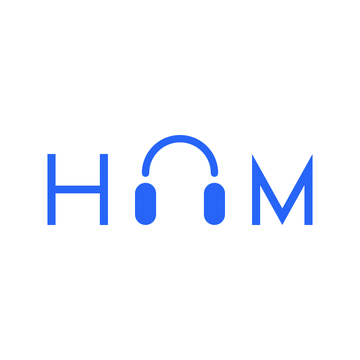
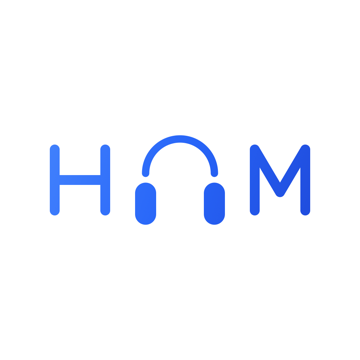
Publish HUM's public pages from 751496d

diff --git a/index.html b/index.html
@@ -14,7 +14,7 @@
 </head>
 <body class="home">
 <header class="bar"><div class="bar-in">
-  <a class="brand" href="./" aria-label="HUM" data-w-label="site.nav.brand"><svg class="mark" viewBox="135 384 754 256" aria-hidden="true" focusable="false"><path fill="currentColor" d="M135 438h23v202h-23zM284 438h23v202h-23zM158 528h126v22H158zM717 640V438l86 154.67L889 438v202h-23V526.7L803 640l-63-113.3V640z"/><rect fill="currentColor" x="384" y="520" width="60" height="120" rx="30"/><rect fill="currentColor" x="580" y="520" width="60" height="120" rx="30"/><path fill="none" stroke="currentColor" stroke-width="21" stroke-linecap="round" d="M414 492.5a98 98 0 0 1 196 0"/></svg></a>
+  <a class="brand" href="./" aria-label="HUM" data-w-label="site.nav.brand"><svg class="mark" viewBox="141 384 742 256" aria-hidden="true" focusable="false"><defs><linearGradient id="hum-ink-1" gradientUnits="userSpaceOnUse" x1="141" y1="384.5" x2="883" y2="639.5"><stop offset="0" stop-color="#4180FD"/><stop offset=".5" stop-color="#2765F8"/><stop offset="1" stop-color="#204CDD"/></linearGradient></defs><path fill="none" stroke="url(#hum-ink-1)" stroke-width="21" stroke-linecap="round" d="M414 493a98 98 0 0 1 196 0"/><rect fill="url(#hum-ink-1)" x="384" y="519.5" width="60" height="120" rx="30"/><rect fill="url(#hum-ink-1)" x="580" y="519.5" width="60" height="120" rx="30"/><path fill="none" stroke="url(#hum-ink-1)" stroke-width="28" stroke-linecap="round" stroke-linejoin="round" d="M155 425V599M299 425V599M155 512H299M725 599V425L797 546.8L869 425V599"/></svg></a>
   <nav class="tabs"><a data-w="site.nav.home" href="./" aria-current="page">Home</a><a data-w="site.nav.about" href="about">About</a><a data-w="site.nav.privacy" href="privacy">Privacy</a><a data-w="site.nav.support" href="support">Support</a></nav>
   <span class="badges"><a class="badge" href="https://apps.apple.com/app/id6820010168"><img data-w-alt="site.badge.apple" src="badges/app-store.svg" width="120" height="40" alt="Download on the App Store"></a><button class="badge play" type="button"><img data-w-alt="site.badge.google" src="badges/google-play.png" width="134" height="40" alt="Get it on Google Play"><span class="soon" data-w="site.badge.soon">Coming soon</span></button></span>
 </div></header>
@@ -88,7 +88,7 @@
 </div></section>
 
 <section class="last"><div class="wrap">
-  <svg class="mark" viewBox="135 384 754 256" aria-hidden="true" focusable="false"><path fill="currentColor" d="M135 438h23v202h-23zM284 438h23v202h-23zM158 528h126v22H158zM717 640V438l86 154.67L889 438v202h-23V526.7L803 640l-63-113.3V640z"/><rect fill="currentColor" x="384" y="520" width="60" height="120" rx="30"/><rect fill="currentColor" x="580" y="520" width="60" height="120" rx="30"/><path fill="none" stroke="currentColor" stroke-width="21" stroke-linecap="round" d="M414 492.5a98 98 0 0 1 196 0"/></svg>
+  <svg class="mark" viewBox="141 384 742 256" aria-hidden="true" focusable="false"><path fill="none" stroke="currentColor" stroke-width="21" stroke-linecap="round" d="M414 493a98 98 0 0 1 196 0"/><rect fill="currentColor" x="384" y="519.5" width="60" height="120" rx="30"/><rect fill="currentColor" x="580" y="519.5" width="60" height="120" rx="30"/><path fill="none" stroke="currentColor" stroke-width="28" stroke-linecap="round" stroke-linejoin="round" d="M155 425V599M299 425V599M155 512H299M725 599V425L797 546.8L869 425V599"/></svg>
   <h2 data-w="site.home.last">download HUM, let your voice come to life.</h2>
   <span class="badges"><a class="badge" href="https://apps.apple.com/app/id6820010168"><img data-w-alt="site.badge.apple" src="badges/app-store.svg" width="120" height="40" alt="Download on the App Store"></a><button class="badge play" type="button"><img data-w-alt="site.badge.google" src="badges/google-play.png" width="134" height="40" alt="Get it on Google Play"><span class="soon" data-w="site.badge.soon">Coming soon</span></button></span>
 </div></section>
@@ -96,7 +96,7 @@
 
 <footer class="foot"><div class="foot-in">
   <div class="foot-brand">
-    <a class="brand" href="./" aria-label="HUM" data-w-label="site.nav.brand"><svg class="mark" viewBox="135 384 754 256" aria-hidden="true" focusable="false"><path fill="currentColor" d="M135 438h23v202h-23zM284 438h23v202h-23zM158 528h126v22H158zM717 640V438l86 154.67L889 438v202h-23V526.7L803 640l-63-113.3V640z"/><rect fill="currentColor" x="384" y="520" width="60" height="120" rx="30"/><rect fill="currentColor" x="580" y="520" width="60" height="120" rx="30"/><path fill="none" stroke="currentColor" stroke-width="21" stroke-linecap="round" d="M414 492.5a98 98 0 0 1 196 0"/></svg></a>
+    <a class="brand" href="./" aria-label="HUM" data-w-label="site.nav.brand"><svg class="mark" viewBox="141 384 742 256" aria-hidden="true" focusable="false"><defs><linearGradient id="hum-ink-3" gradientUnits="userSpaceOnUse" x1="141" y1="384.5" x2="883" y2="639.5"><stop offset="0" stop-color="#4180FD"/><stop offset=".5" stop-color="#2765F8"/><stop offset="1" stop-color="#204CDD"/></linearGradient></defs><path fill="none" stroke="url(#hum-ink-3)" stroke-width="21" stroke-linecap="round" d="M414 493a98 98 0 0 1 196 0"/><rect fill="url(#hum-ink-3)" x="384" y="519.5" width="60" height="120" rx="30"/><rect fill="url(#hum-ink-3)" x="580" y="519.5" width="60" height="120" rx="30"/><path fill="none" stroke="url(#hum-ink-3)" stroke-width="28" stroke-linecap="round" stroke-linejoin="round" d="M155 425V599M299 425V599M155 512H299M725 599V425L797 546.8L869 425V599"/></svg></a>
     <p data-w="site.foot.download">Download HUM</p>
     <span class="badges"><a class="badge" href="https://apps.apple.com/app/id6820010168"><img data-w-alt="site.badge.apple" src="badges/app-store.svg" width="120" height="40" alt="Download on the App Store"></a><button class="badge play" type="button"><img data-w-alt="site.badge.google" src="badges/google-play.png" width="134" height="40" alt="Get it on Google Play"><span class="soon" data-w="site.badge.soon">Coming soon</span></button></span>
   </div>

diff --git a/privacy.html b/privacy.html
@@ -11,7 +11,7 @@
 </head>
 <body class="doc">
 <header class="bar"><div class="bar-in">
-  <a class="brand" href="./" aria-label="HUM" data-w-label="site.nav.brand"><svg class="mark" viewBox="135 384 754 256" aria-hidden="true" focusable="false"><path fill="currentColor" d="M135 438h23v202h-23zM284 438h23v202h-23zM158 528h126v22H158zM717 640V438l86 154.67L889 438v202h-23V526.7L803 640l-63-113.3V640z"/><rect fill="currentColor" x="384" y="520" width="60" height="120" rx="30"/><rect fill="currentColor" x="580" y="520" width="60" height="120" rx="30"/><path fill="none" stroke="currentColor" stroke-width="21" stroke-linecap="round" d="M414 492.5a98 98 0 0 1 196 0"/></svg></a>
+  <a class="brand" href="./" aria-label="HUM" data-w-label="site.nav.brand"><svg class="mark" viewBox="141 384 742 256" aria-hidden="true" focusable="false"><defs><linearGradient id="hum-ink-1" gradientUnits="userSpaceOnUse" x1="141" y1="384.5" x2="883" y2="639.5"><stop offset="0" stop-color="#4180FD"/><stop offset=".5" stop-color="#2765F8"/><stop offset="1" stop-color="#204CDD"/></linearGradient></defs><path fill="none" stroke="url(#hum-ink-1)" stroke-width="21" stroke-linecap="round" d="M414 493a98 98 0 0 1 196 0"/><rect fill="url(#hum-ink-1)" x="384" y="519.5" width="60" height="120" rx="30"/><rect fill="url(#hum-ink-1)" x="580" y="519.5" width="60" height="120" rx="30"/><path fill="none" stroke="url(#hum-ink-1)" stroke-width="28" stroke-linecap="round" stroke-linejoin="round" d="M155 425V599M299 425V599M155 512H299M725 599V425L797 546.8L869 425V599"/></svg></a>
   <nav class="tabs"><a data-w="site.nav.home" href="./">Home</a><a data-w="site.nav.about" href="about">About</a><a data-w="site.nav.privacy" href="privacy" aria-current="page">Privacy</a><a data-w="site.nav.support" href="support">Support</a></nav>
   <span class="badges"><a class="badge" href="https://apps.apple.com/app/id6820010168"><img data-w-alt="site.badge.apple" src="badges/app-store.svg" width="120" height="40" alt="Download on the App Store"></a><button class="badge play" type="button"><img data-w-alt="site.badge.google" src="badges/google-play.png" width="134" height="40" alt="Get it on Google Play"><span class="soon" data-w="site.badge.soon">Coming soon</span></button></span>
 </div></header>
@@ -104,7 +104,7 @@
 </main>
 <footer class="foot"><div class="foot-in">
   <div class="foot-brand">
-    <a class="brand" href="./" aria-label="HUM" data-w-label="site.nav.brand"><svg class="mark" viewBox="135 384 754 256" aria-hidden="true" focusable="false"><path fill="currentColor" d="M135 438h23v202h-23zM284 438h23v202h-23zM158 528h126v22H158zM717 640V438l86 154.67L889 438v202h-23V526.7L803 640l-63-113.3V640z"/><rect fill="currentColor" x="384" y="520" width="60" height="120" rx="30"/><rect fill="currentColor" x="580" y="520" width="60" height="120" rx="30"/><path fill="none" stroke="currentColor" stroke-width="21" stroke-linecap="round" d="M414 492.5a98 98 0 0 1 196 0"/></svg></a>
+    <a class="brand" href="./" aria-label="HUM" data-w-label="site.nav.brand"><svg class="mark" viewBox="141 384 742 256" aria-hidden="true" focusable="false"><defs><linearGradient id="hum-ink-2" gradientUnits="userSpaceOnUse" x1="141" y1="384.5" x2="883" y2="639.5"><stop offset="0" stop-color="#4180FD"/><stop offset=".5" stop-color="#2765F8"/><stop offset="1" stop-color="#204CDD"/></linearGradient></defs><path fill="none" stroke="url(#hum-ink-2)" stroke-width="21" stroke-linecap="round" d="M414 493a98 98 0 0 1 196 0"/><rect fill="url(#hum-ink-2)" x="384" y="519.5" width="60" height="120" rx="30"/><rect fill="url(#hum-ink-2)" x="580" y="519.5" width="60" height="120" rx="30"/><path fill="none" stroke="url(#hum-ink-2)" stroke-width="28" stroke-linecap="round" stroke-linejoin="round" d="M155 425V599M299 425V599M155 512H299M725 599V425L797 546.8L869 425V599"/></svg></a>
     <p data-w="site.foot.download">Download HUM</p>
     <span class="badges"><a class="badge" href="https://apps.apple.com/app/id6820010168"><img data-w-alt="site.badge.apple" src="badges/app-store.svg" width="120" height="40" alt="Download on the App Store"></a><button class="badge play" type="button"><img data-w-alt="site.badge.google" src="badges/google-play.png" width="134" height="40" alt="Get it on Google Play"><span class="soon" data-w="site.badge.soon">Coming soon</span></button></span>
   </div>

diff --git a/support.html b/support.html
@@ -11,7 +11,7 @@
 </head>
 <body class="doc">
 <header class="bar"><div class="bar-in">
-  <a class="brand" href="./" aria-label="HUM" data-w-label="site.nav.brand"><svg class="mark" viewBox="135 384 754 256" aria-hidden="true" focusable="false"><path fill="currentColor" d="M135 438h23v202h-23zM284 438h23v202h-23zM158 528h126v22H158zM717 640V438l86 154.67L889 438v202h-23V526.7L803 640l-63-113.3V640z"/><rect fill="currentColor" x="384" y="520" width="60" height="120" rx="30"/><rect fill="currentColor" x="580" y="520" width="60" height="120" rx="30"/><path fill="none" stroke="currentColor" stroke-width="21" stroke-linecap="round" d="M414 492.5a98 98 0 0 1 196 0"/></svg></a>
+  <a class="brand" href="./" aria-label="HUM" data-w-label="site.nav.brand"><svg class="mark" viewBox="141 384 742 256" aria-hidden="true" focusable="false"><defs><linearGradient id="hum-ink-1" gradientUnits="userSpaceOnUse" x1="141" y1="384.5" x2="883" y2="639.5"><stop offset="0" stop-color="#4180FD"/><stop offset=".5" stop-color="#2765F8"/><stop offset="1" stop-color="#204CDD"/></linearGradient></defs><path fill="none" stroke="url(#hum-ink-1)" stroke-width="21" stroke-linecap="round" d="M414 493a98 98 0 0 1 196 0"/><rect fill="url(#hum-ink-1)" x="384" y="519.5" width="60" height="120" rx="30"/><rect fill="url(#hum-ink-1)" x="580" y="519.5" width="60" height="120" rx="30"/><path fill="none" stroke="url(#hum-ink-1)" stroke-width="28" stroke-linecap="round" stroke-linejoin="round" d="M155 425V599M299 425V599M155 512H299M725 599V425L797 546.8L869 425V599"/></svg></a>
   <nav class="tabs"><a data-w="site.nav.home" href="./">Home</a><a data-w="site.nav.about" href="about">About</a><a data-w="site.nav.privacy" href="privacy">Privacy</a><a data-w="site.nav.support" href="support" aria-current="page">Support</a></nav>
   <span class="badges"><a class="badge" href="https://apps.apple.com/app/id6820010168"><img data-w-alt="site.badge.apple" src="badges/app-store.svg" width="120" height="40" alt="Download on the App Store"></a><button class="badge play" type="button"><img data-w-alt="site.badge.google" src="badges/google-play.png" width="134" height="40" alt="Get it on Google Play"><span class="soon" data-w="site.badge.soon">Coming soon</span></button></span>
 </div></header>
@@ -45,7 +45,7 @@
 </main>
 <footer class="foot"><div class="foot-in">
   <div class="foot-brand">
-    <a class="brand" href="./" aria-label="HUM" data-w-label="site.nav.brand"><svg class="mark" viewBox="135 384 754 256" aria-hidden="true" focusable="false"><path fill="currentColor" d="M135 438h23v202h-23zM284 438h23v202h-23zM158 528h126v22H158zM717 640V438l86 154.67L889 438v202h-23V526.7L803 640l-63-113.3V640z"/><rect fill="currentColor" x="384" y="520" width="60" height="120" rx="30"/><rect fill="currentColor" x="580" y="520" width="60" height="120" rx="30"/><path fill="none" stroke="currentColor" stroke-width="21" stroke-linecap="round" d="M414 492.5a98 98 0 0 1 196 0"/></svg></a>
+    <a class="brand" href="./" aria-label="HUM" data-w-label="site.nav.brand"><svg class="mark" viewBox="141 384 742 256" aria-hidden="true" focusable="false"><defs><linearGradient id="hum-ink-2" gradientUnits="userSpaceOnUse" x1="141" y1="384.5" x2="883" y2="639.5"><stop offset="0" stop-color="#4180FD"/><stop offset=".5" stop-color="#2765F8"/><stop offset="1" stop-color="#204CDD"/></linearGradient></defs><path fill="none" stroke="url(#hum-ink-2)" stroke-width="21" stroke-linecap="round" d="M414 493a98 98 0 0 1 196 0"/><rect fill="url(#hum-ink-2)" x="384" y="519.5" width="60" height="120" rx="30"/><rect fill="url(#hum-ink-2)" x="580" y="519.5" width="60" height="120" rx="30"/><path fill="none" stroke="url(#hum-ink-2)" stroke-width="28" stroke-linecap="round" stroke-linejoin="round" d="M155 425V599M299 425V599M155 512H299M725 599V425L797 546.8L869 425V599"/></svg></a>
     <p data-w="site.foot.download">Download HUM</p>
     <span class="badges"><a class="badge" href="https://apps.apple.com/app/id6820010168"><img data-w-alt="site.badge.apple" src="badges/app-store.svg" width="120" height="40" alt="Download on the App Store"></a><button class="badge play" type="button"><img data-w-alt="site.badge.google" src="badges/google-play.png" width="134" height="40" alt="Get it on Google Play"><span class="soon" data-w="site.badge.soon">Coming soon</span></button></span>
   </div>

diff --git a/about.html b/about.html
@@ -16,7 +16,7 @@
 </head>
 <body class="about">
 <header class="bar"><div class="bar-in">
-  <a class="brand" href="./" aria-label="HUM" data-w-label="site.nav.brand"><svg class="mark" viewBox="135 384 754 256" aria-hidden="true" focusable="false"><path fill="currentColor" d="M135 438h23v202h-23zM284 438h23v202h-23zM158 528h126v22H158zM717 640V438l86 154.67L889 438v202h-23V526.7L803 640l-63-113.3V640z"/><rect fill="currentColor" x="384" y="520" width="60" height="120" rx="30"/><rect fill="currentColor" x="580" y="520" width="60" height="120" rx="30"/><path fill="none" stroke="currentColor" stroke-width="21" stroke-linecap="round" d="M414 492.5a98 98 0 0 1 196 0"/></svg></a>
+  <a class="brand" href="./" aria-label="HUM" data-w-label="site.nav.brand"><svg class="mark" viewBox="141 384 742 256" aria-hidden="true" focusable="false"><defs><linearGradient id="hum-ink-1" gradientUnits="userSpaceOnUse" x1="141" y1="384.5" x2="883" y2="639.5"><stop offset="0" stop-color="#4180FD"/><stop offset=".5" stop-color="#2765F8"/><stop offset="1" stop-color="#204CDD"/></linearGradient></defs><path fill="none" stroke="url(#hum-ink-1)" stroke-width="21" stroke-linecap="round" d="M414 493a98 98 0 0 1 196 0"/><rect fill="url(#hum-ink-1)" x="384" y="519.5" width="60" height="120" rx="30"/><rect fill="url(#hum-ink-1)" x="580" y="519.5" width="60" height="120" rx="30"/><path fill="none" stroke="url(#hum-ink-1)" stroke-width="28" stroke-linecap="round" stroke-linejoin="round" d="M155 425V599M299 425V599M155 512H299M725 599V425L797 546.8L869 425V599"/></svg></a>
   <nav class="tabs"><a data-w="site.nav.home" href="./">Home</a><a data-w="site.nav.about" href="about" aria-current="page">About</a><a data-w="site.nav.privacy" href="privacy">Privacy</a><a data-w="site.nav.support" href="support">Support</a></nav>
   <span class="badges"><a class="badge" href="https://apps.apple.com/app/id6820010168"><img data-w-alt="site.badge.apple" src="badges/app-store.svg" width="120" height="40" alt="Download on the App Store"></a><button class="badge play" type="button"><img data-w-alt="site.badge.google" src="badges/google-play.png" width="134" height="40" alt="Get it on Google Play"><span class="soon" data-w="site.badge.soon">Coming soon</span></button></span>
 </div></header>
